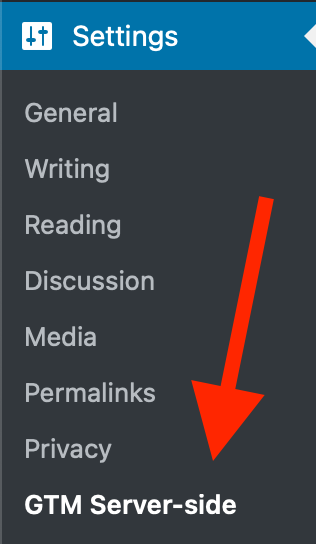
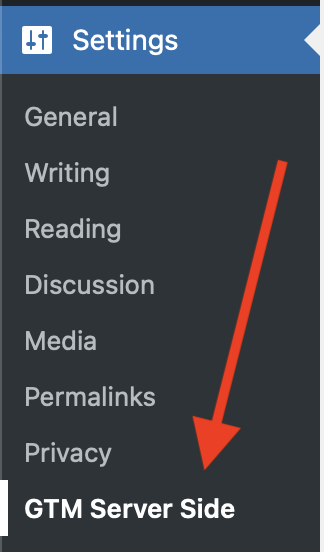
Updated description and screenshots

diff --git a/gtm-server-side.php b/gtm-server-side.php
@@ -10,7 +10,7 @@
  * Plugin Name:       GTM Server Side
  * Plugin URI:        https://wordpress.org/plugins/gtm-server-side/
  * Description:       Google Tag Manager Server Side Integration Made Easy
- * Version:           2.0.0
+ * Version:           2.0.1
  * Author:            Stape
  * Author URI:        https://stape.io
  * License:           GPL-2.0+

diff --git a/bootstrap.php b/bootstrap.php
@@ -8,7 +8,7 @@
 defined( 'ABSPATH' ) || exit;
 
 // Definitions.
-define( 'GTM_SERVER_SIDE_VERSION', '2.0.0' );
+define( 'GTM_SERVER_SIDE_VERSION', '2.0.1' );
 
 define( 'GTM_SERVER_SIDE_PATH', plugin_dir_path( __FILE__ ) );
 define( 'GTM_SERVER_SIDE_URL', plugin_dir_url( __FILE__ ) );
